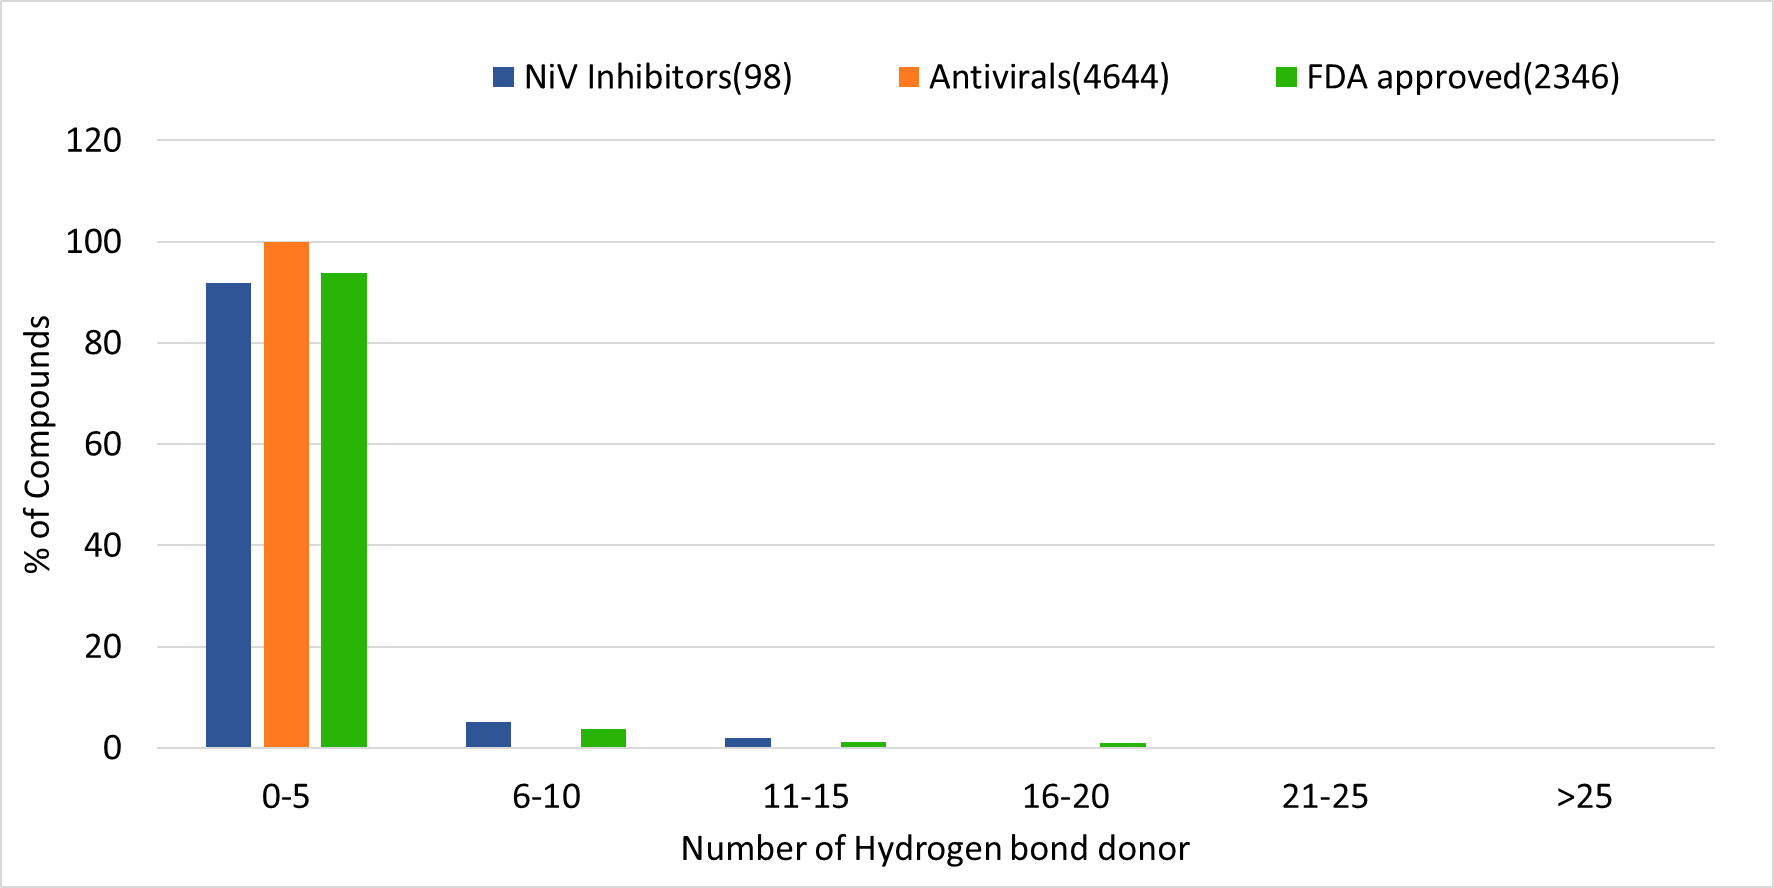
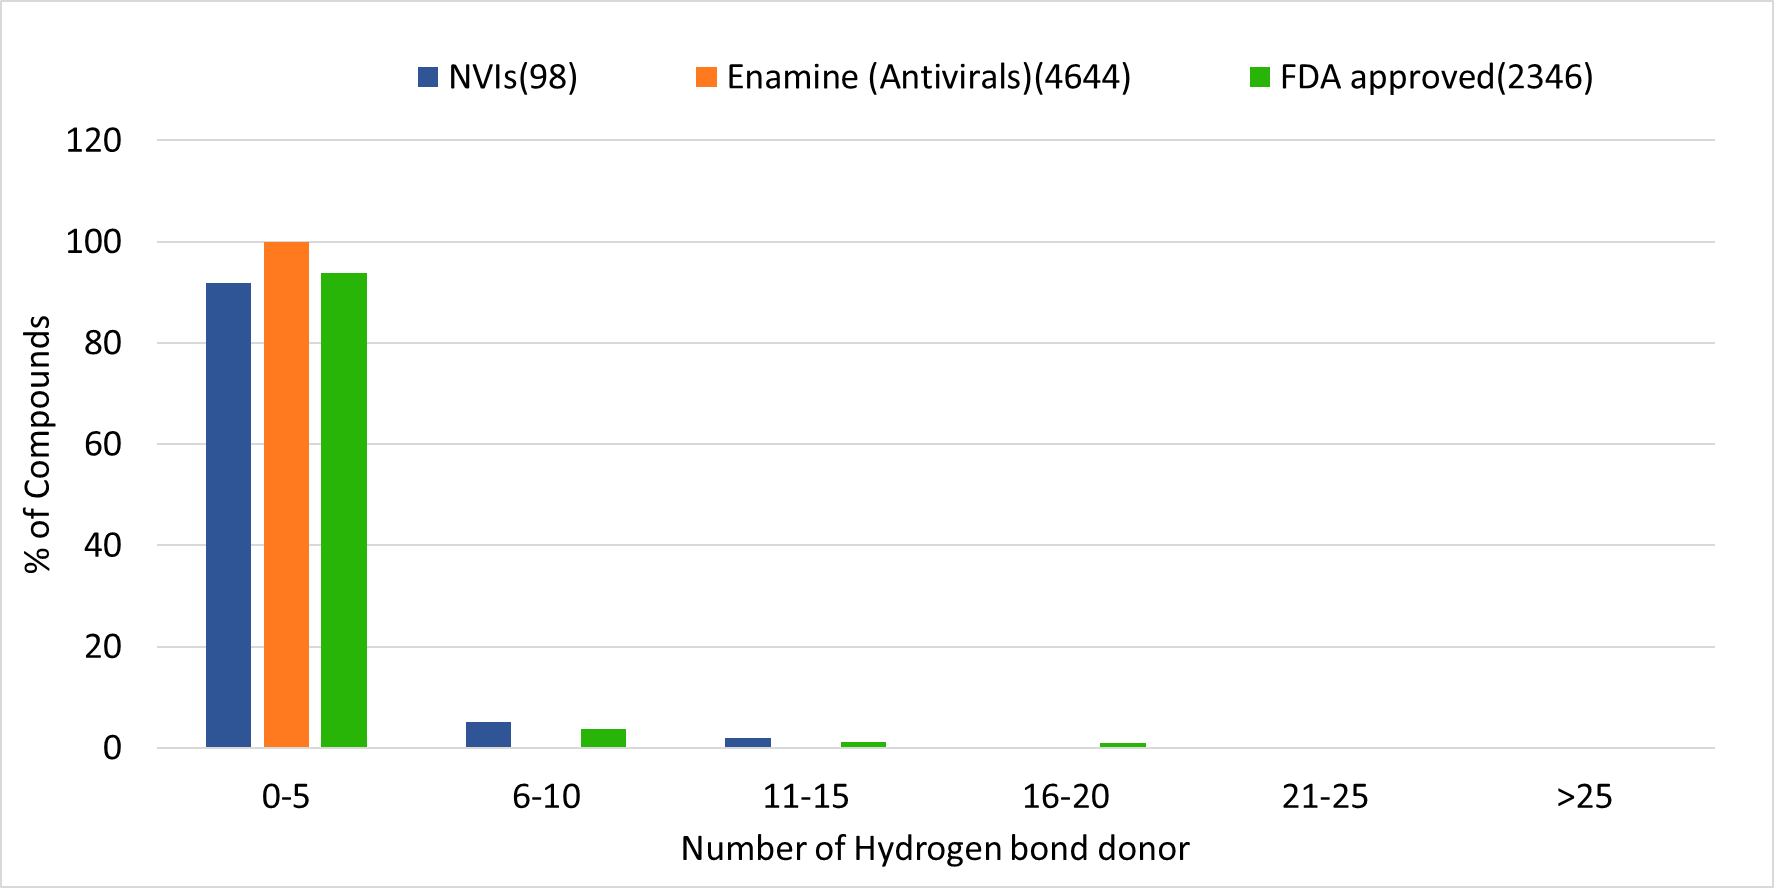
Change image captions and image ligends with adjust page view.

Changed region(s): [[0.217, 0.0608, 0.6511, 0.1216], [0.6821, 0.0608, 0.9301, 0.1216]]

diff --git a/stats.php b/stats.php
@@ -3,11 +3,21 @@ include'template-nidb_new.php';
 include 'sidemenu.php';
 print<<<HTML
 <title>NVIK Statistics</title>
+<head>
+<style>
+.center {
+  text-align: center;
+  margin-right: 60px;
+}
+</style>
+</head>
+<body>
+<div class="center">
 <a name='nipah_stat'>
-<h2><center>NVI's Statistics</center></h2>
+<h2><center>Nipah Virus Inhibitors (NVIs) Statistics</center></h2>
 
 <br><br>
-<center><u><b>Table - 1:</b> General information about NVI's</u></center>
+<center><u><b>Table - 1:</b> General information about Nipah Virus Inhibitors (NVIs)</u></center>
 <br>
 
 <table border=1px; style='border-collapse:collapse;' align='center' width='700px'>
@@ -17,7 +27,7 @@ print<<<HTML
 <br><br>
 HTML;
 #include'con1.php';
-echo"<center><u><b>Table - 2:</b> Statistics of molecular properties of NVI's molecules</u></center>";
+echo"<center><u><b>Table - 2:</b> Statistics of molecular properties of NVIs molecules</u></center>";
 echo"<br>";
 echo"<table border=2px; style='border-collapse:collapse;' align='center' width='500px'>";
 $all = file("statistics_13_Nov_2019.txt");
@@ -31,41 +41,43 @@ echo"</table>";
 print<<<HTML
 <br><br>
 
-<center><u><b>Figure- 1:</b> Molecular weight distribution comparison between NVI's compounds, FDA approved small molecule drugs from Drugbank,<br> FDA approved Nutraceutical drugs from Drugbank and Anti-TB drugs </u></center>
+<center><u><b>Figure- 1:</b> Molecular weight distribution comparison between NVIs with respect to Enamine antiviral library and FDA approved compounds</u></center>
 <br>
 <center><img width='66%' src='images/prop/MW.png' border=0px; style='border-collapse:collapse;'></center>
 <center><a href='#top' style='text-decoration: none;'><b>[Top]</b></a></center>
 <br><br>
 
-<center><u><b>Figure- 2:</b> Hydrogen bond donor distribution comparison between NVI's compounds, FDA approved small molecule drugs from Drugbank,<br> FDA approved Nutraceutical drugs from Drugbank and Anti-TB drugs </u></center>
+<center><u><b>Figure- 2:</b> Hydrogen bond donor distribution comparison between NVIs with respect to Enamine antiviral library and FDA approved compounds</u></center>
 <br>
 <center><img width='66%' src='images/prop/HBD.png' border=0px; style='border-collapse:collapse;'></center>
 <center><a href='#top' style='text-decoration: none;'><b>[Top]</b></a></center>
 <br><br>
 
-<center><u><b>Figure- 3:</b> Hydrogen bond acceptor distribution comparison between NVI's compounds, FDA approved small molecule drugs from Drugbank,<br> FDA approved Nutraceutical drugs from Drugbank and Anti-TB drugs </u></center>
+<center><u><b>Figure- 3:</b> Hydrogen bond acceptor distribution comparison between NVIs with respect to Enamine antiviral library and FDA approved compounds</u></center>
 <br>
 <center><img width='66%' src='images/prop/HBA.png' border=0px; style='border-collapse:collapse;'></center>
 <center><a href='#top' style='text-decoration: none;'><b>[Top]</b></a></center>
 <br><br>
 
-<center><u><b>Figure- 4:</b> XLogP distribution comparison between NVI's compounds, FDA approved small molecule drugs from Drugbank, <br>FDA approved Nutraceutical drugs from Drugbank and Anti-TB drugs </u></center>
+<center><u><b>Figure- 4:</b> XLogP distribution comparison between NVIs with respect to Enamine antiviral library and FDA approved compounds</u></center>
 <br>
 <center><img width='66%' src='images/prop/XLogP.png' border=0px; style='border-collapse:collapse;'></center>
 <center><a href='#top' style='text-decoration: none;'><b>[Top]</b></a></center>
 <br><br>
 
-<center><u><b>Figure- 5:</b> Number of rotatable bonds distribution comparison between NVI's compounds, FDA approved small molecule drugs from Drugbank,<br> FDA approved Nutraceutical drugs from Drugbank and Anti-TB drugs </u></center>
+<center><u><b>Figure- 5:</b> Number of rotatable bonds distribution comparison between NVIs with respect to Enamine antiviral library and FDA approved compounds</u></center>
 <br>
 <center><img width='66%' src='images/prop/RotB.png' border=0px; style='border-collapse:collapse;'></center>
 <center><a href='#top' style='text-decoration: none;'><b>[Top]</b></a></center>
 <br><br>
 
-<center><u><b>Figure- 6:</b>Topological Polar surface area distribution comparison between NVI's compounds, FDA approved small molecule drugs from <br>Drugbank, FDA approved Nutraceutical drugs from Drugbank and Anti-TB drugs </u></center>
+<center><u><b>Figure- 6:</b>Topological Polar surface area distribution comparison between NVIs with respect to Enamine antiviral library and FDA approved compounds</u></center>
 <br>
 <center><img width='66%' src='images/prop/TopoPSA.png' border=0px; style='border-collapse:collapse;'></center>
 <center><a href='#top' style='text-decoration: none;'><b>[Top]</b></a></center>
 <br><br>
+</div>
 
+</body>
 HTML;
 ?>

diff --git a/sidemenu.php b/sidemenu.php
@@ -245,7 +245,7 @@
 				  <ul>
 					
 					<li><a href="arch.php">Architecture</a></li>
-					<li><a href="stats.php">NVI's Stats</a></li>
+					<li><a href="stats.php">NVIs Stats</a></li>
 					<li><a href="physico_chem.php">Properties</a></li>
 					<li><a href="priority_inhibitors.php" style="font-size: 15px;">Priority Inhibitors</a></li>
 					<li><a href="circos.php">Clustring</a></li>
